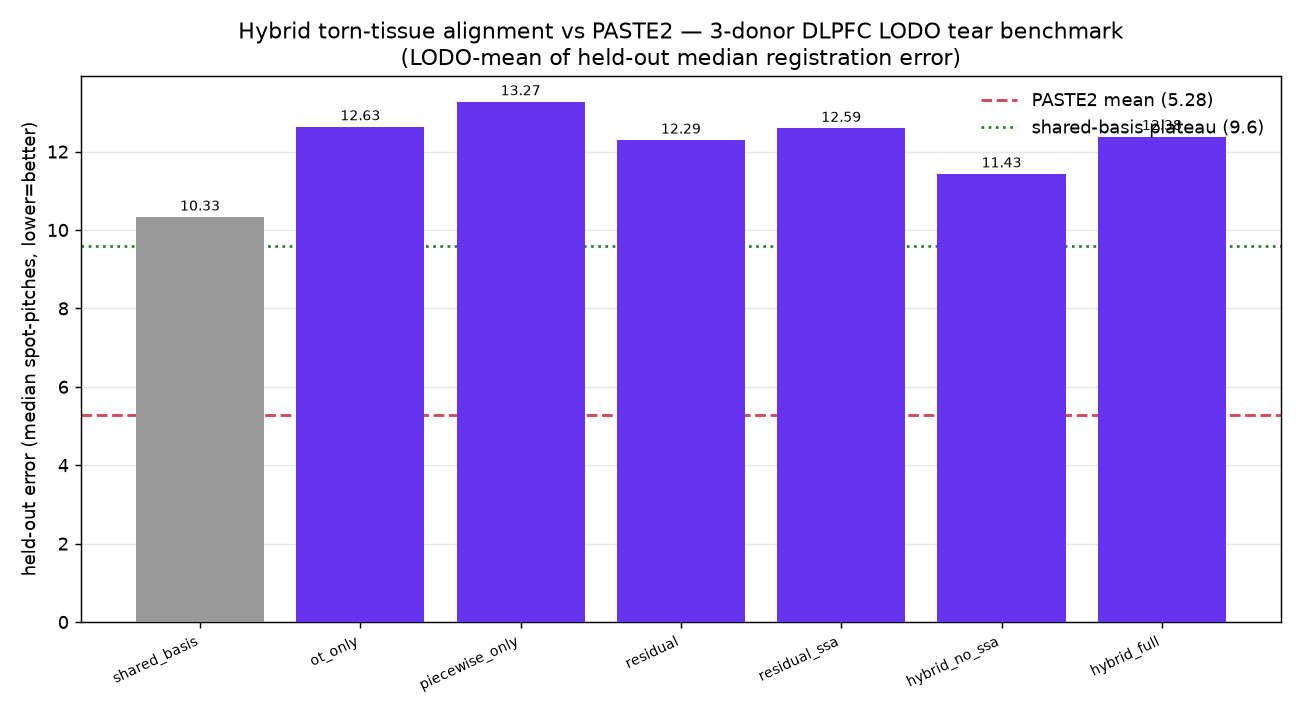
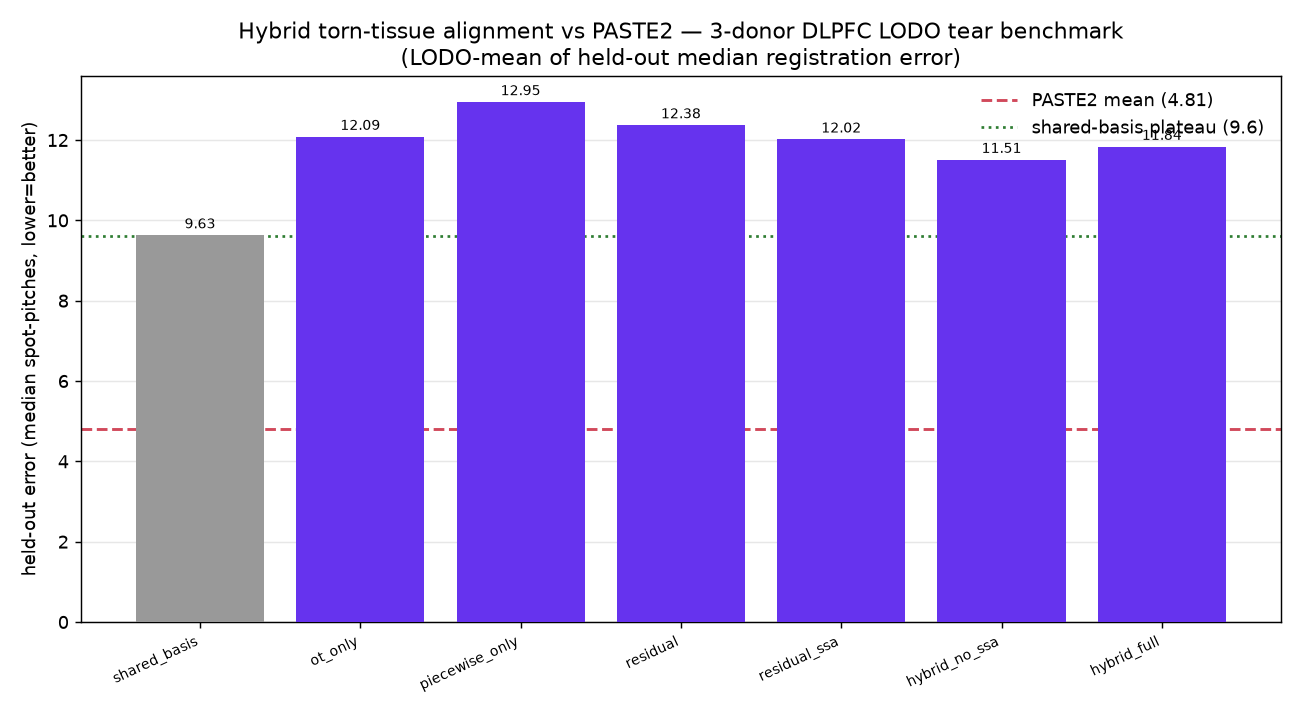
auto-sync 2026-07-17T02:58:04

diff --git a/research/FINDINGS_hybrid_combined.md b/research/FINDINGS_hybrid_combined.md
@@ -1,43 +1,43 @@
 # Hybrid torn-tissue alignment ? does combining cheap levers beat PASTE2?
 
-_Generated 2026-07-17T07:31:33Z on branch `hybrid-combined`._
+_Generated 2026-07-17T07:57:43Z on branch `hybrid-combined`._
 
 **Question.** Combine, in one toggleable pipeline, an OT correspondence prior (PASTE2-style, no training), tear-detection + piecewise classical alignment, a learned residual trained only on SYNTHETIC tears, and per-dataset self-supervised adaptation. Does the combination beat PASTE2 on held-out / torn DLPFC and on an off-distribution breast pair ? and which components drive any gain?
 
 
-**Benchmark.** 3-donor DLPFC leave-one-donor-out (Br5292/Br5595/Br8100), tear benchmark, median registration error in spot-pitches, eval severities 0,1,2,3,4,6,8 (tear=True, eval-seed 0) ? identical to generalization_max.py so numbers overlay prior work. PASTE2 held-out reference (full-res FGW, prior sweep): Br5292 5.28 (mean 5.28); shared-basis plateau 9.6.
+**Benchmark.** 3-donor DLPFC leave-one-donor-out (Br5292/Br5595/Br8100), tear benchmark, median registration error in spot-pitches, eval severities 0,1,2,3,4,6,8 (tear=True, eval-seed 0) ? identical to generalization_max.py so numbers overlay prior work. PASTE2 held-out reference (full-res FGW, prior sweep): Br5292 5.28, Br5595 4.35 (mean 4.81); shared-basis plateau 9.6.
 
 
 ## Headline
 
-Best configuration: **`shared_basis`** at **10.33** LODO-mean pitches, which does **not** beat PASTE2 (mean 5.28). Shared-basis baseline recomputed here for reference.
+Best configuration: **`shared_basis`** at **9.63** LODO-mean pitches, which does **not** beat PASTE2 (mean 4.81). Shared-basis baseline recomputed here for reference.
 
 
 ## LODO ranking (mean held-out error, lower=better)
 
-| rank | config | LODO-mean | vs PASTE2 | Br5292 |
-|---|---|---|---|---|
-| 1 | `shared_basis` | 10.33 | +5.05 | 10.328 |
-| 2 | `hybrid_no_ssa` | 11.43 | +6.15 | 11.429 |
-| 3 | `residual` | 12.29 | +7.01 | 12.292 |
-| 4 | `hybrid_full` | 12.38 | +7.10 | 12.383 |
-| 5 | `residual_ssa` | 12.59 | +7.31 | 12.592 |
-| 6 | `ot_only` | 12.63 | +7.35 | 12.631 |
-| 7 | `piecewise_only` | 13.27 | +7.99 | 13.269 |
+| rank | config | LODO-mean | vs PASTE2 | Br5292 | Br5595 |
+|---|---|---|---|---|---|
+| 1 | `shared_basis` | 9.63 | +4.82 | 10.328 | 8.941 |
+| 2 | `hybrid_no_ssa` | 11.51 | +6.70 | 11.429 | 11.598 |
+| 3 | `hybrid_full` | 11.84 | +7.02 | 12.383 | 11.293 |
+| 4 | `residual_ssa` | 12.02 | +7.21 | 12.592 | 11.45 |
+| 5 | `ot_only` | 12.09 | +7.27 | 12.631 | 11.543 |
+| 6 | `residual` | 12.38 | +7.56 | 12.292 | 12.458 |
+| 7 | `piecewise_only` | 12.95 | +8.14 | 13.269 | 12.632 |
 
 ## What each component contributes
 
-- **OT prior alone** (`ot_only`): 12.63 ? the training-free PASTE2-style correspondence surrogate (expression entropic-OT).
-- **+ tear-detect/piecewise** (`piecewise_only`): 13.27 ? structural, training-free tear correction on top of OT.
-- **+ learned residual, synthetic-trained** (`residual`): 12.29 ? the synthetic-tear-transfer test (trained on TRAIN donors' synthetic tears, evaluated on the real held-out donor).
-- **+ self-supervised adaptation** (`residual_ssa`): 12.59.
-- **full hybrid, no SSA** (`hybrid_no_ssa`): 11.43 ? OT+piecewise+residual fused by the agentic advisor gate.
-- **full hybrid** (`hybrid_full`): 12.38.
-- **shared-basis NN** (`shared_basis`): 10.33 (prior plateau reference 9.6).
+- **OT prior alone** (`ot_only`): 12.09 ? the training-free PASTE2-style correspondence surrogate (expression entropic-OT).
+- **+ tear-detect/piecewise** (`piecewise_only`): 12.95 ? structural, training-free tear correction on top of OT.
+- **+ learned residual, synthetic-trained** (`residual`): 12.38 ? the synthetic-tear-transfer test (trained on TRAIN donors' synthetic tears, evaluated on the real held-out donor).
+- **+ self-supervised adaptation** (`residual_ssa`): 12.02.
+- **full hybrid, no SSA** (`hybrid_no_ssa`): 11.51 ? OT+piecewise+residual fused by the agentic advisor gate.
+- **full hybrid** (`hybrid_full`): 11.84.
+- **shared-basis NN** (`shared_basis`): 9.63 (prior plateau reference 9.6).
 
 ## Synthetic-data transfer
 
-Training the residual purely on synthetic tears of the training donors and evaluating on the real held-out donor moves error 12.63 -> 12.29 pitches. Synthetic training **transfers (improves over the OT base on the real held-out donor)**.
+Training the residual purely on synthetic tears of the training donors and evaluating on the real held-out donor moves error 12.09 -> 12.38 pitches. Synthetic training **does NOT transfer (no improvement over the OT base on held-out real tissue)**.
 
 ## On the requested internet-scouring agent
 
